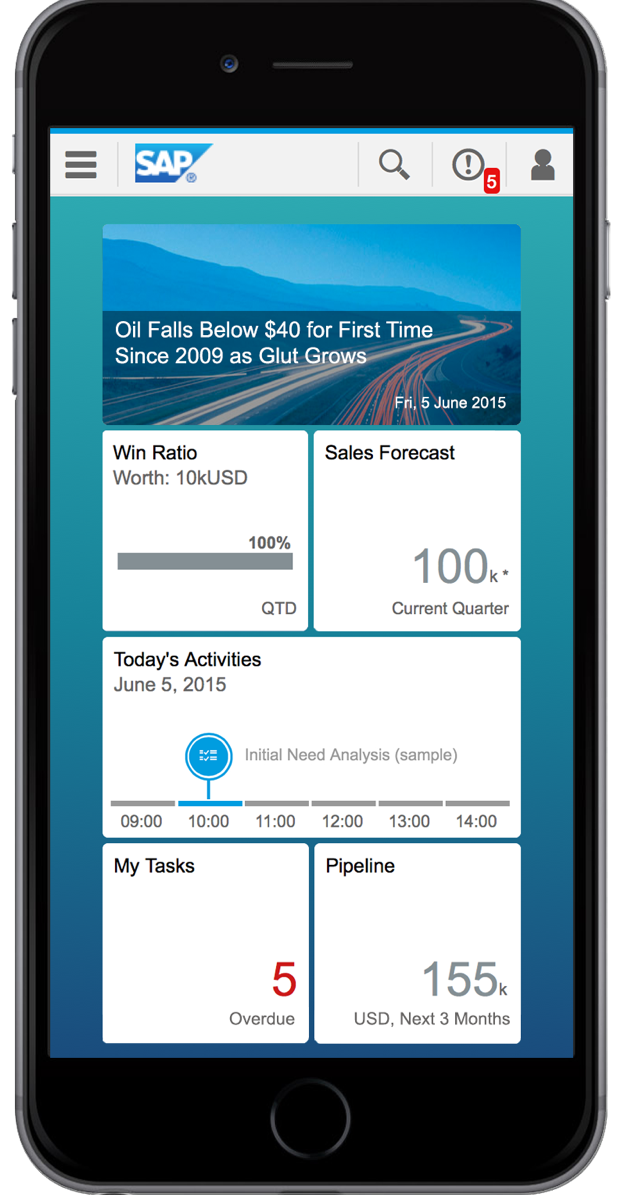
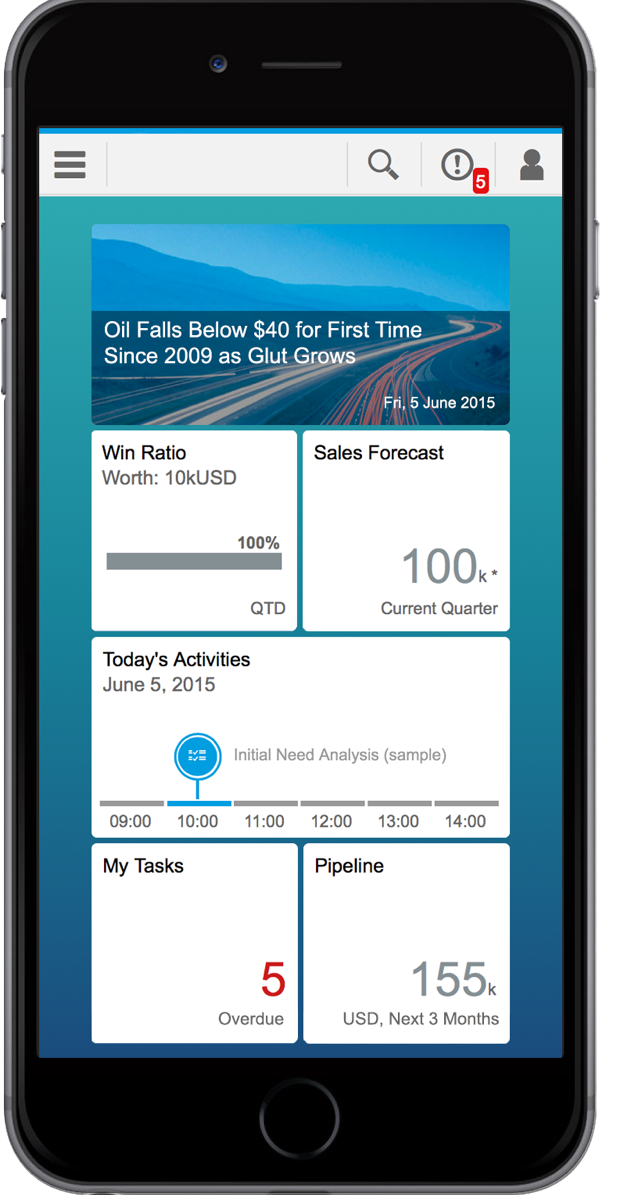
removed the scroll bar from the bottom of the result box, also removed the sap log from the phone image

diff --git a/static-assets/app/css/main.css b/static-assets/app/css/main.css
@@ -689,6 +689,7 @@
   border: 1px solid #E7E7E7;
   margin: 0;
   overflow: scroll;
+  overflow-x: hidden;
   max-height: 173px;
   border-radius: 5px;
   -webkit-border-radius: 5px;
